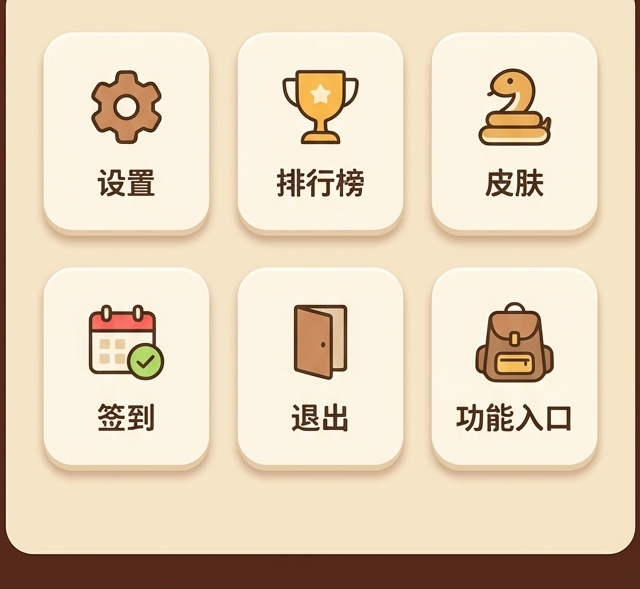
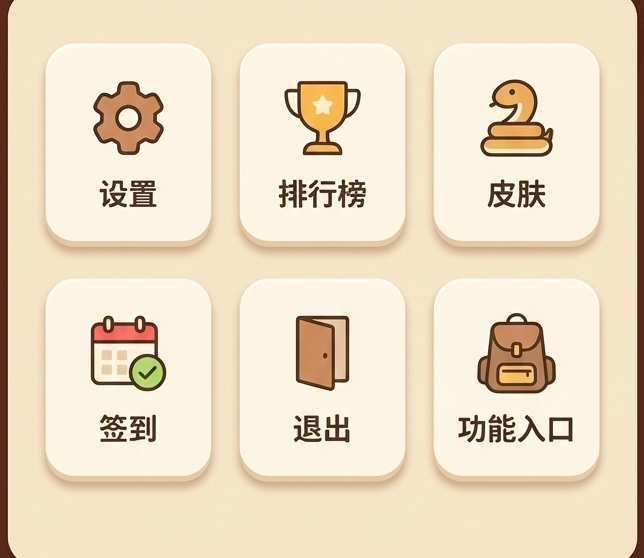
fix: align sliced home button to source pixels and remove panel seam overlay

diff --git a/css/style.css b/css/style.css
@@ -1013,10 +1013,10 @@ body {
 
 #menuOverlay .play-area-v2 {
     position: absolute;
-    left: 96px;
-    top: 333px;
-    width: 238px;
-    height: 107px;
+    left: 92.5px;
+    top: 342.5px;
+    width: 245px;
+    height: 93.75px;
     margin: 0;
     padding: 0;
     gap: 0;
@@ -1027,8 +1027,8 @@ body {
 #menuOverlay .btn-play {
     position: relative;
     z-index: 6;
-    width: 238px;
-    height: 107px;
+    width: 245px;
+    height: 93.75px;
     border: 0;
     border-radius: 999px;
     background: var(--asset-home-start-button) center / 100% 100% no-repeat;
@@ -1036,6 +1036,7 @@ body {
     color: transparent;
     text-shadow: none;
     font-size: 0;
+    line-height: 0;
     cursor: pointer;
     pointer-events: auto;
     touch-action: manipulation;
@@ -1053,13 +1054,13 @@ body {
 
 #menuOverlay .menu-bottom-zone-v2 {
     position: absolute;
-    left: 15px;
-    top: 574px;
-    width: 400px;
-    height: 358px;
+    left: 14px;
+    top: 584px;
+    width: 402px;
+    height: 349px;
     border: 0;
     border-radius: 0;
-    background: var(--asset-home-feature-panel) center / 100% 100% no-repeat;
+    background: transparent;
     box-shadow: none;
     padding: 0;
     z-index: 2;
@@ -1073,8 +1074,8 @@ body {
 
 #menuOverlay .feature-card {
     position: absolute;
-    width: 111px;
-    height: 132px;
+    width: 103.3px;
+    height: 125.8px;
     border: 0;
     border-radius: 18px;
     background: transparent;
@@ -1083,33 +1084,33 @@ body {
 }
 
 #menuOverlay .feature-card[data-feature-id='settings'] {
-    left: 20px;
-    top: 22px;
+    left: 26.9px;
+    top: 25px;
 }
 
 #menuOverlay .feature-card[data-feature-id='leaderboard'] {
-    left: 145px;
-    top: 22px;
+    left: 147.8px;
+    top: 25px;
 }
 
 #menuOverlay .feature-card[data-feature-id='skins'] {
-    left: 269px;
-    top: 22px;
+    left: 270.3px;
+    top: 25px;
 }
 
 #menuOverlay .feature-card[data-feature-id='checkin'] {
-    left: 20px;
-    top: 183px;
+    left: 26.9px;
+    top: 170.9px;
 }
 
 #menuOverlay .feature-card[data-feature-id='exit'] {
-    left: 145px;
-    top: 183px;
+    left: 147.8px;
+    top: 170.9px;
 }
 
 #menuOverlay .feature-card-placeholder {
-    left: 269px;
-    top: 183px;
+    left: 270.3px;
+    top: 170.9px;
 }
 
 #menuOverlay .feature-card::after {

diff --git a/index.html b/index.html
@@ -9,7 +9,7 @@
     <link rel="preconnect" href="https://fonts.googleapis.com">
     <link rel="preconnect" href="https://fonts.gstatic.com" crossorigin>
     <link href="https://fonts.googleapis.com/css2?family=Nunito:wght@700;800;900&family=ZCOOL+KuaiLe&display=swap" rel="stylesheet">
-    <link rel="stylesheet" href="css/style.css?v=41">
+    <link rel="stylesheet" href="css/style.css?v=42">
 </head>
 <body>
     <div class="app-container">
